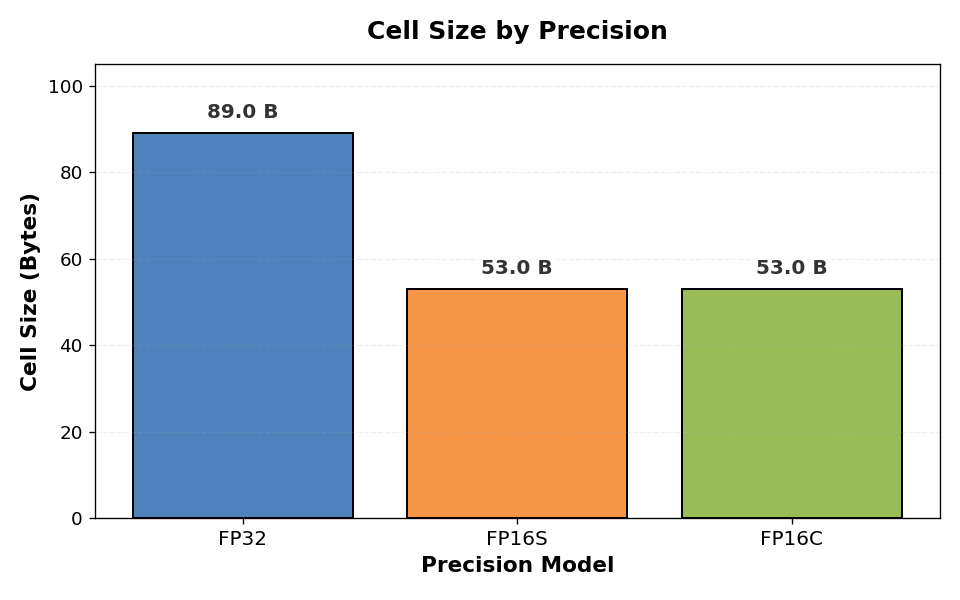
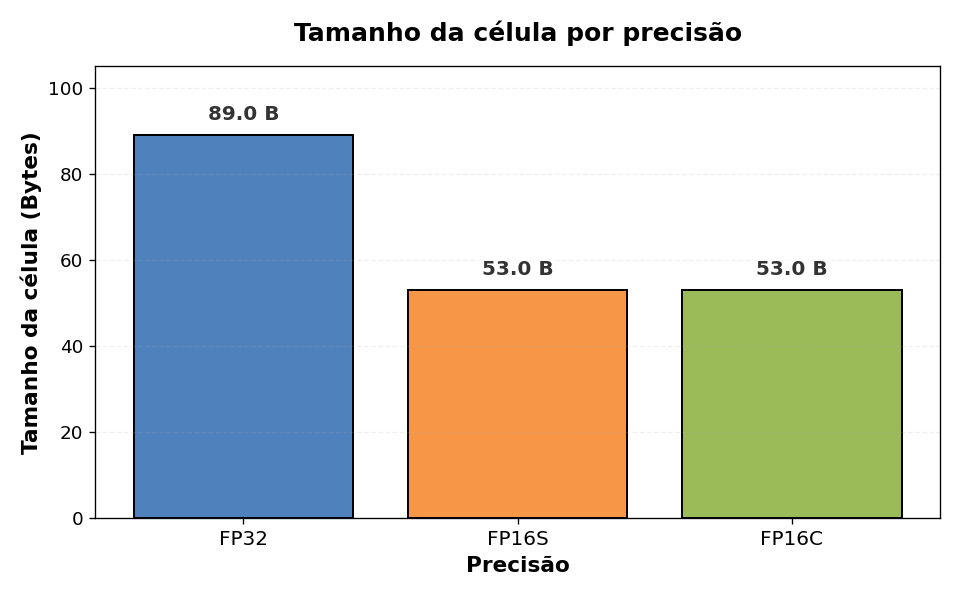
Add performance plotting script for LBM benchmarks
- Implemented a new Python script `plot_ptbr.py` to visualize benchmark results for Lattice Boltzmann Method (LBM) simulations.
- The script reads benchmark data from a CSV file and generates multiple plots:
  - Performance (MLUps) vs Grid Size for different models and precision modes.
  - Comparison of precision modes using a bar chart based on the highest MLUps for each model.
  - Improved cell size comparison by precision in a bar chart.
  - Bandwidth comparison plot showing real vs theoretical bandwidth.
- Added functionality to customize input file and maximum bandwidth via command line arguments.
- Enhanced data visualization with custom legends, annotations, and improved aesthetics.

diff --git a/plot_ptbr.py b/plot_ptbr.py
@@ -81,7 +81,7 @@ for i, model in enumerate(models):
             if precision not in precision_seen:
                 precision_handles.append(Line2D([0], [0], color='gray', marker=marker, linestyle='', markersize=10, label=precision))
                 precision_seen.add(precision)
-            # Add performance annotations (only to the largest grid sizes)
+            # Adiciona anotações de performance (apenas para o maior grid)
             max_grid = subset['GridSize'].max()
             for _, row in subset[subset['GridSize'] == max_grid].iterrows():
                 plt.annotate(f'{row["MLUps"]:.1f}', 
@@ -92,14 +92,14 @@ for i, model in enumerate(models):
                             color=color,
                             fontweight='bold')
 
-plt.xlabel('Grid Size (Number of Cells, log scale)', fontsize=12)
+plt.xlabel('Tamanho do Grid (número de células, escala log)', fontsize=12)
 plt.ylabel('Performance (MLUps)', fontsize=12)
-plt.title(f'LBM Performance: MLUps vs Grid Size by Model and Precision\n{gpu_name}', fontsize=14, fontweight='bold')
+plt.title(f'Desempenho LBM: MLUps vs Tamanho do Grid por Modelo e Precisão\n{gpu_name}', fontsize=14, fontweight='bold')
 plt.grid(True, alpha=0.3)
-# Custom legends: stacked vertically (model/color on top, precision/marker below)
-first_legend = plt.legend(handles=model_handles, title='Model (Color)', fontsize=10, title_fontsize=11, loc='upper left', bbox_to_anchor=(0, 1))
+# Legendas customizadas empilhadas (modelo/cor em cima, precisão/marcador embaixo)
+first_legend = plt.legend(handles=model_handles, title='Modelo (Cor)', fontsize=10, title_fontsize=11, loc='upper left', bbox_to_anchor=(0, 1))
 plt.gca().add_artist(first_legend)
-plt.legend(handles=precision_handles, title='Precision (Marker)', fontsize=10, title_fontsize=11, loc='upper left', bbox_to_anchor=(0, 0.78))
+plt.legend(handles=precision_handles, title='Precisão (Marcador)', fontsize=10, title_fontsize=11, loc='upper left', bbox_to_anchor=(0, 0.78))
 plt.xscale('log')
 plt.tight_layout()
 plt.savefig(f'benchmarks/performance_model_precision_{gpu_name_safe}.png')
@@ -136,12 +136,12 @@ for i, precision in enumerate(precision_modes):
             plt.text(x[j] + offset, v + 20, f'{v:.0f}', 
                      ha='center', va='bottom', fontsize=9, fontweight='bold')
 
-plt.xlabel('Model', fontsize=12)
+plt.xlabel('Modelo', fontsize=12)
 plt.ylabel('Performance (MLUps)', fontsize=12)
-plt.title(f'LBM Performance by Model and Precision Mode\n{gpu_name} - Highest MLUps', 
+plt.title(f'Desempenho LBM por Modelo e Precisão\n{gpu_name} - Maior MLUps', 
           fontsize=14, fontweight='bold')
 plt.xticks(x, models)
-plt.legend(title='Precision')
+plt.legend(title='Precisão')
 plt.grid(axis='y', alpha=0.3)
 plt.tight_layout()
 plt.savefig(f'benchmarks/precision_comparison_{gpu_name_safe}_highest.png')
@@ -173,9 +173,9 @@ for i, v in enumerate(cell_sizes):
         color='#333', bbox=dict(facecolor='white', alpha=0.7, edgecolor='none', boxstyle='round,pad=0.2')
     )
 
-plt.xlabel('Precision Model', fontsize=13, fontweight='bold')
-plt.ylabel('Cell Size (Bytes)', fontsize=13, fontweight='bold')
-plt.title('Cell Size by Precision', fontsize=15, fontweight='bold', pad=15)
+plt.xlabel('Precisão', fontsize=13, fontweight='bold')
+plt.ylabel('Tamanho da célula (Bytes)', fontsize=13, fontweight='bold')
+plt.title('Tamanho da célula por precisão', fontsize=15, fontweight='bold', pad=15)
 plt.xticks(x, selected_precisions, fontsize=12)
 plt.yticks(fontsize=11)
 plt.grid(axis='y', alpha=0.18, linestyle='--', zorder=0)
@@ -217,10 +217,10 @@ for i, precision in enumerate(precision_modes):
             plt.text(x[j] + offset, v + max(values) * 0.03, f'{e:.2f}x',
                      ha='center', va='bottom', fontsize=9, fontweight='bold')
 
-plt.axhline(max_bandwidth_GBs, color='k', linestyle='--', linewidth=1.5, label='Theoretical Max')
-plt.xlabel('Model', fontsize=12)
-plt.ylabel('Bandwidth (GB/s)', fontsize=12)
-plt.title(f'LBM: Real vs Theoretical Bandwidth (GB/s)\n{gpu_name}', fontsize=14, fontweight='bold')
+plt.axhline(max_bandwidth_GBs, color='k', linestyle='--', linewidth=1.5, label='Máximo Teórico')
+plt.xlabel('Modelo', fontsize=12)
+plt.ylabel('Largura de banda (GB/s)', fontsize=12)
+plt.title(f'LBM: Largura de banda real vs teórica (GB/s)\n{gpu_name}', fontsize=14, fontweight='bold')
 plt.xticks(x, models)
 plt.legend(framealpha=1)
 plt.grid(axis='y', alpha=0.3)

diff --git a/src/solver/opencl.rs b/src/solver/opencl.rs
@@ -237,10 +237,6 @@ impl LBM {
             PrecisionMode::FP16S | PrecisionMode::FP16C => {
                 f_bytes = n * q * 2; // half = 2 bytes
                 f_new_bytes = n * q * 2;
-            },
-            _ => {
-                f_bytes = n * q * std::mem::size_of::<f32>();
-                f_new_bytes = n * q * std::mem::size_of::<f32>();
             }
         }
 

diff --git a/src/solver/init.rs b/src/solver/init.rs
@@ -69,8 +69,6 @@ impl LBM {
             context: None,
             queue: None,
             program: None,
-            // streaming_kernel: None,
-            // collision_kernel: None,
             stream_collide_kernel: None,
             equilibrium_kernel: None,
             found_errors: false,
